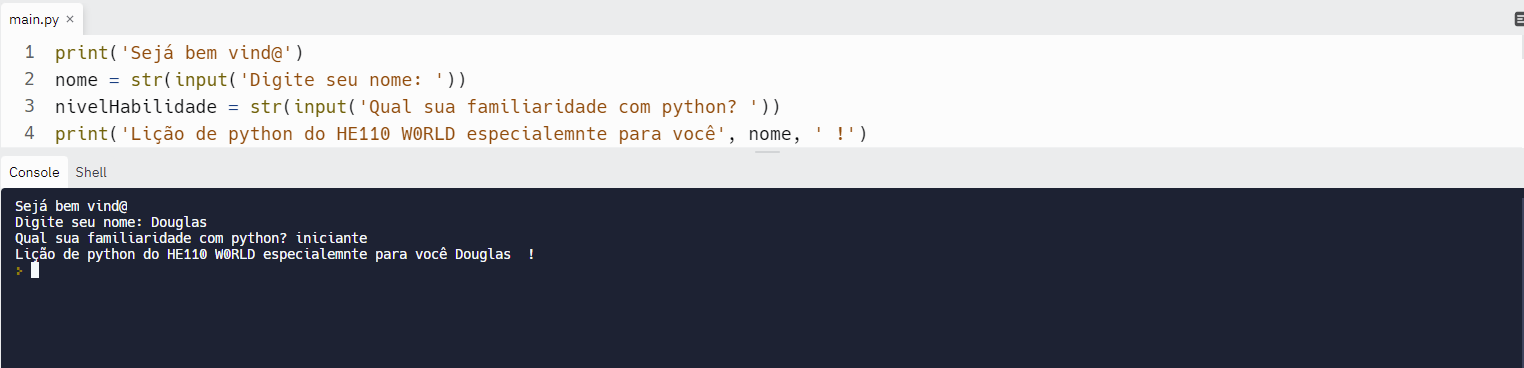
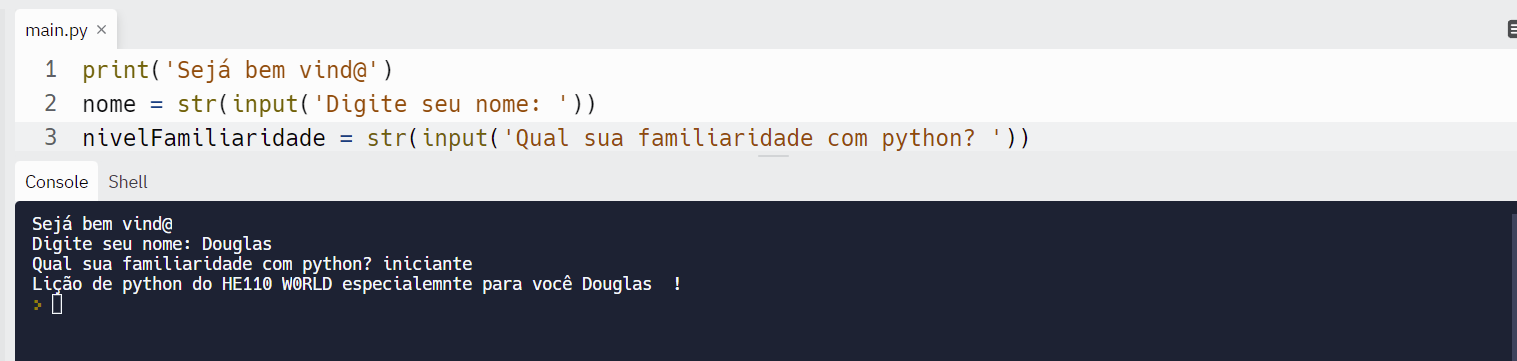
troca do nome da variável #50

Changed region(s): [[0.0, 0.4571, 1.0, 1.0], [0.0, 0.0305, 0.6816, 0.4571], [0.9914, 0.0305, 1.0, 0.1219]]

diff --git a/src/python.html b/src/python.html
@@ -326,7 +326,7 @@
             na tela:</p>
           <img class="col mx-auto text-center" src="img/exemplo-python-codepen.png" alt="demonstração">
           <br>
-          <p class="text-center">Então vamos lá! Sua tarefa, será imprimir o nível de habilidade do usuário, que já é
+          <p class="text-center">Então vamos lá! Sua tarefa, será imprimir o nível de familiaridade do usuário, que já é
             recebido porém não é utilizado. Para fazer isso basta clickar <a
               href="https://replit.com/@doglast/teste-de-python-he110wor1d?v=1#main.py">aqui</a>
             e clikar no botão "Show files", como na imagem de exemplo abaixo. Para essa atividade vai editar o arquivo
